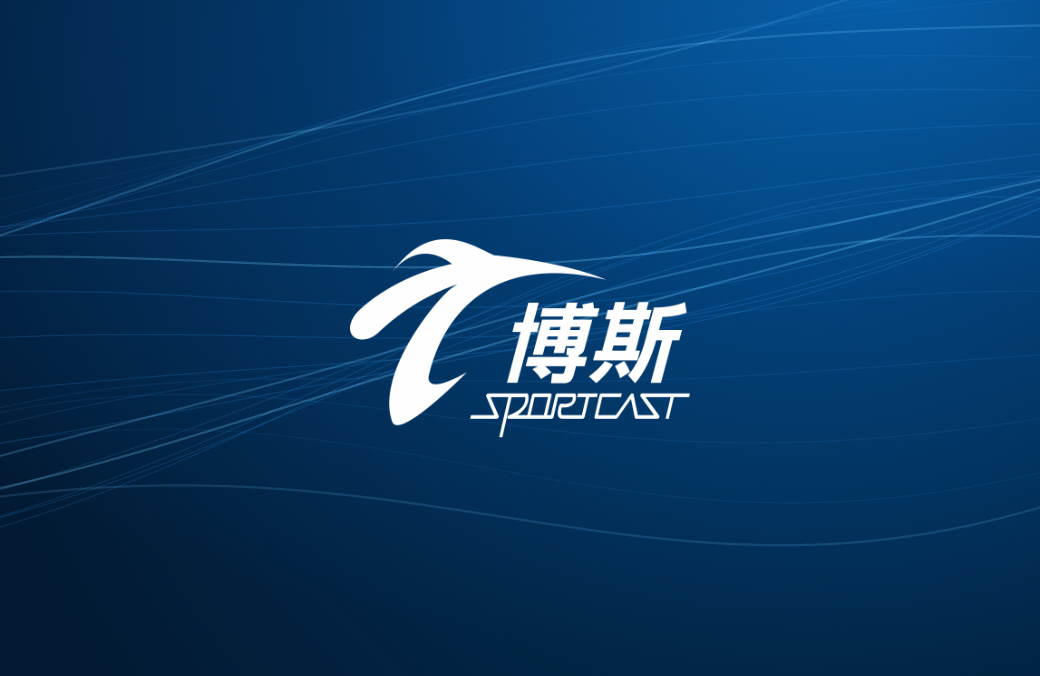
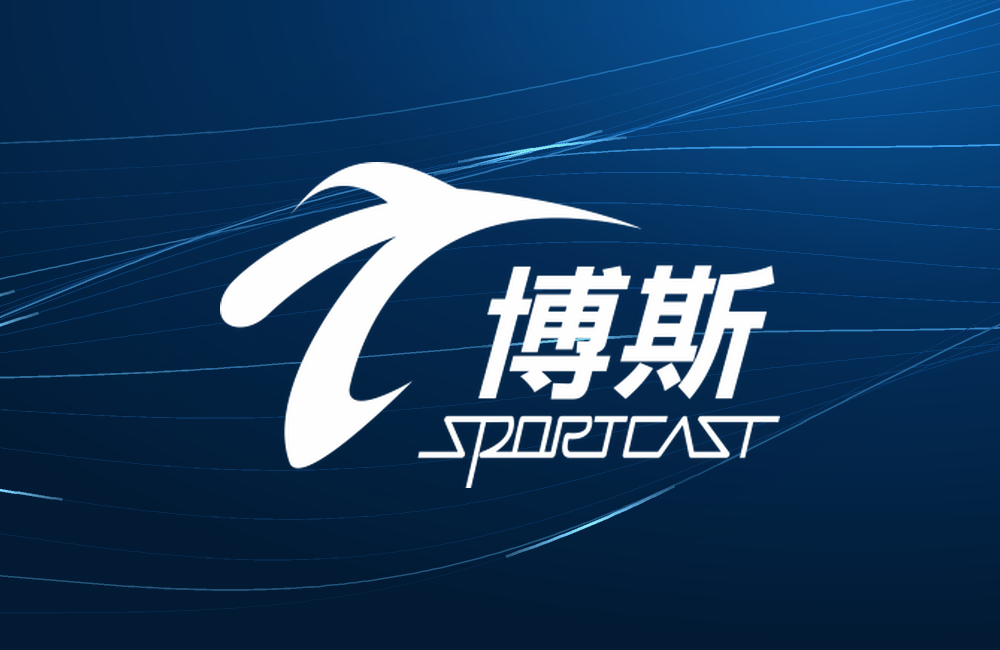
動態主視覺（光點流動版）、頁尾改 CSTV華衛集團、移除加入通訊錄

diff --git a/card.html b/card.html
@@ -62,7 +62,7 @@
   .contacts svg { width: 16px; height: 16px; flex: none; stroke: #8fd0ff; fill: none; stroke-width: 1.6; }
   .contacts span.k { color: var(--ink-soft); font-size: 12px; width: 34px; flex: none; }
 
-  .actions { display: grid; grid-template-columns: 1fr 1fr; gap: 10px; margin-top: 20px; }
+  .actions { display: grid; grid-template-columns: 1fr; gap: 10px; margin-top: 20px; }
   .btn {
     appearance: none; border: 0; cursor: pointer;
     height: 44px; border-radius: 999px; font: inherit; font-size: 14px; letter-spacing: .08em;
@@ -100,11 +100,10 @@
 
       <div class="actions">
         <button class="btn primary" id="share">用 LINE 分享</button>
-        <a class="btn ghost" id="vcf" href="#">加入通訊錄</a>
       </div>
     </section>
 
-    <div class="foot">華衛集團 · 博斯運動事業股份有限公司</div>
+    <div class="foot">CSTV華衛集團</div>
   </div>
 </article>
 
@@ -129,7 +128,6 @@ const telFmt = t => t.replace(/^(\d{4})(\d{3})(\d{3})$/, '$1-$2-$3');
   const telA = document.querySelector('[data-href="tel"]'), mailA = document.querySelector('[data-href="mail"]');
   if (m.tel) { document.querySelector('[data-f="tel"]').textContent = telFmt(m.tel); telA.href = 'tel:' + m.tel; } else telA.remove();
   if (m.mail) { document.querySelector('[data-f="mail"]').textContent = m.mail; mailA.href = 'mailto:' + m.mail; } else mailA.remove();
-  document.getElementById('vcf').href = `${ECARD.API}?u=${encodeURIComponent(m.id)}&vcf=1`;
   document.getElementById('share').addEventListener('click', () => {
     location.href = `https://liff.line.me/${ECARD.LIFF_ID}?u=${encodeURIComponent(m.id)}`;
   });
